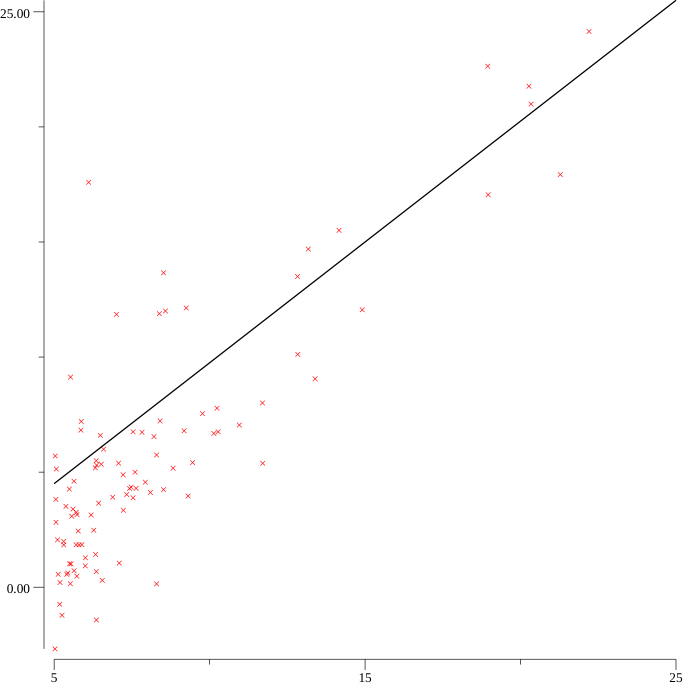
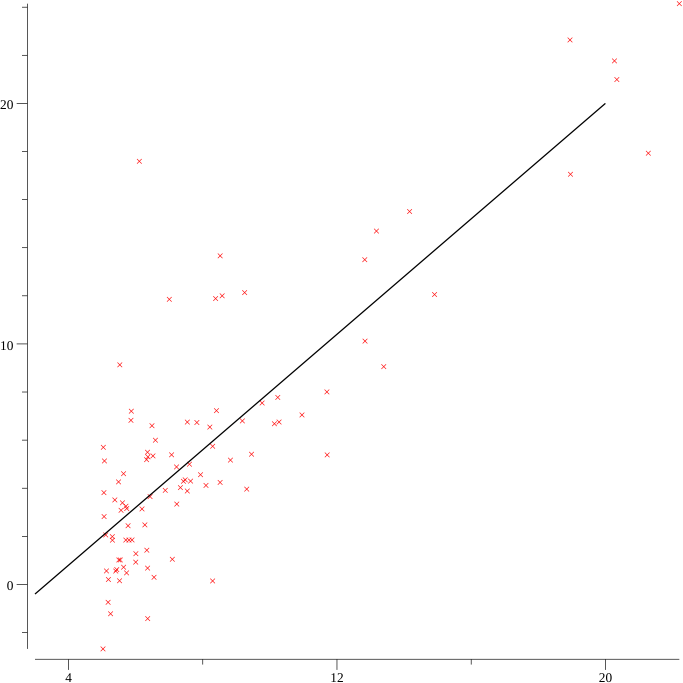
use linear regression to find the line of best fit

diff --git a/main.go b/main.go
@@ -5,6 +5,7 @@ import (
 	"fmt"
 	"image/color"
 	"log"
+	"math"
 	"os"
 
 	"gonum.org/v1/plot"
@@ -75,11 +76,9 @@ func plotData(path string, xys plotter.XYs) error {
 	p.Add(s)
 
 	// create (fake) linear regression result
-	var x, c float64
-	x = 1
-	c = 0.5
+	m, c := linearRegression(xys)
 	l, err := plotter.NewLine(plotter.XYs{
-		{X: 5, Y: 5 + c}, {X: 25, Y: (25 * x) + c},
+		{X: 3, Y: (3 * m) + c}, {X: 20, Y: (20 * m) + c},
 	})
 	if err != nil {
 		return fmt.Errorf("could not create line: %v", err)
@@ -101,4 +100,37 @@ func plotData(path string, xys plotter.XYs) error {
 		return fmt.Errorf("could not close %s: %v", path, err)
 	}
 	return nil
+}
+
+func linearRegression(xys plotter.XYs) (m, c float64) {
+	const (
+		min   = -100.0
+		max   = 100.0
+		delta = 0.1
+	)
+
+	minCost := math.MaxFloat64
+	for im := min; im < max; im += delta {
+		for ic := min; ic < max; ic += delta {
+			cost := computeCost(xys, im, ic)
+			if cost < minCost {
+				minCost = cost
+				m, c = im, ic
+			}
+		}
+	}
+
+	fmt.Printf("cost(%.2f, %.2f) = %.2f\n", m, c, computeCost(xys, m, c))
+
+	return m, c
+}
+
+func computeCost(xys plotter.XYs, m, c float64) float64 {
+	// cost = 1/N sum((y - (m*x+c))^2)
+	s := 0.0
+	for _, xy := range xys {
+		d := xy.Y - (xy.X*m + c)
+		s += d * d
+	}
+	return s / float64(len(xys))
 }

diff --git a/readme.md b/readme.md
@@ -7,4 +7,5 @@ In this repo, I explore machine learning, reading + plotting data and other stuf
 ## Resources
 
 - https://www.gonum.org/
-- https://www.youtube.com/watch?v=ihP7lQivA6M
+- [justforfunc #34: Plotting Data with gonum/plot](https://www.youtube.com/watch?v=ihP7lQivA6M)
+- [justforfunc #38: Linear Regression with Gradient Descent](https://www.youtube.com/watch?v=ZPd_fKyrX48)
